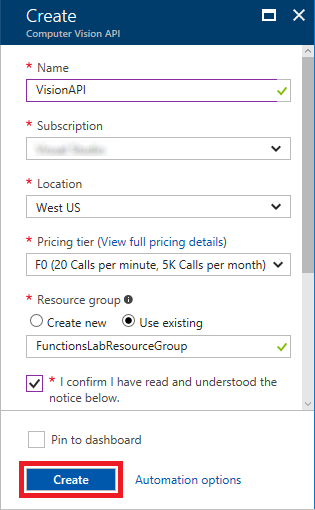
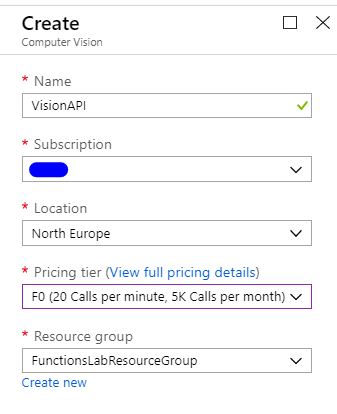
Correction with new UI and change to v1 Function

Changed region(s): [[0.0, 0.0, 1.0, 1.0], [0.4286, 0.9275, 0.7714, 0.9565], [0.8571, 0.8406, 0.9429, 0.8986]]

diff --git a/doc/01 - Portal/Azure Functions HOL (C#).md b/doc/01 - Portal/Azure Functions HOL (C#).md
@@ -74,27 +74,35 @@ The first step in writing an Azure Function is to create an Azure Function App. 
 
     _Opening the resource group_
 
+
+
 5. Periodically click the **Refresh** button at the top of the blade until "Deploying" changes to "Succeeded," indicating that the Function App has been deployed. Then click the storage account that was created for the Function App.
 
     ![Opening the storage account](Images/open-storage-account-after-deployment.png)
 
     _Opening the storage account_
 
-6. Click **Blobs** to view the contents of blob storage.
+6. Click on **Function Name**, and then in the Platform features in the right pane. Then clik on **Function app settings**, select **-1** 
+
+    ![Chaning Function app setting](Images/change-appsettings.PNG)
+
+    _Chaning Function app setting_
+
+7. Click **Blobs** to view the contents of blob storage.
 
     ![Opening blob storage](Images/open-blob-storage.png)
 
     _Opening blob storage_
 
-7. Click **+ Container**. Type "uploaded" into the **Name** box and set **Access type** to **Private**. Then click the **OK** button to create a new container.
+8. Click **+ Container**. Type "uploaded" into the **Name** box and set **Access type** to **Private**. Then click the **OK** button to create a new container.
 
     ![Adding a container](Images/add-container.png)
 
     _Adding a container_
 
-8. Repeat Step 7 to add containers named "accepted" and "rejected" to blob storage.
+9. Repeat Step 7 to add containers named "accepted" and "rejected" to blob storage.
 
-9. Confirm that all three containers were added to blob storage.
+10. Confirm that all three containers were added to blob storage.
 
     ![The new containers](Images/new-containers.png)
 
@@ -186,7 +194,8 @@ public async static Task Run(Stream myBlob, Stream acceptedBlob, Stream rejected
   {
       "frameworks": {
           "net46": {
-              "dependencies": {					"Microsoft.ProjectOxford.Vision": "1.0.393",
+              "dependencies": {					
+                  "Microsoft.ProjectOxford.Vision": "1.0.393",
                   "WindowsAzure.Storage": "7.2.0"
               }
           }
@@ -212,41 +221,41 @@ An Azure Function written in C# has been created, complete with a JSON project f
 
 The Azure Function you created in [Exercise 2](#Exercise2) loads a subscription key for the Microsoft Cognitive Services Computer Vision API from application settings. This key is required in order for your code to call the Computer Vision API, and is transmitted in an HTTP header in each call. In this exercise, you will subscribe to the Computer Vision API, and then add an access key for the subscription to application settings.
 
-1. In the Azure Portal, click **+ New**, followed by **AI + Cognitive Services** and **Computer Vision API**.
+1. In the Azure Portal, click **+ New**, followed by **AI + Machine Learning** and **Computer Vision**.
 
-    ![Creating a new Computer Vision API subscription](Images/new-vision-api.png)
+    ![Creating a new Computer Vision subscription](Images/new-vision-api.png)
 
-    _Creating a new Computer Vision API subscription_
+    _Creating a new Computer Vision subscription_
 
 2. Enter "VisionAPI" into the **Name** box and select **F0** as the **Pricing tier**. Under **Resource Group**, select **Use existing** and select the "FunctionsLabResourceGroup" that you created for the Function App in Exercise 1. Check the **I confirm** box, and then click **Create**.
 
-    ![Subcribing to the Computer Vision API](Images/create-vision-api.png)
+    ![Subcribing to the Computer Vision](Images/create-vision-api.png)
 
-    _Subcribing to the Computer Vision API_
+    _Subcribing to the Computer Vision_
 
 3. Return to the blade for the "FunctionsLabResourceGroup" resource group and click the Computer Vision API subscription that you just created.
 
-    ![Opening the Computer Vision API subscription](Images/open-vision-api.png)
+    ![Opening the Computer Vision subscription](Images/open-vision-api.png)
 
-    _Opening the Computer Vision API subscription_
+    _Opening the Computer Vision subscription_
 
-4. Click **Overview** in left pane. Click **Show access keys**.
+4. Click **Overview** in left pane. Click **Show access keys**. 
 
     ![Viewing the access keys](Images/show-access-keys.png)
 
     _Viewing the access keys_
 
-5. Click the **Copy** button to the right of **KEY 1** to copy the access key to the clipboard.
+5. Click the **Copy** button to the right of **KEY 1** to copy the access key to the clipboard. Copy the Endpoint URL, you may need to change the VisionServiceClient object in the code.
 
     ![Copying the access key](Images/copy-access-key.png)
 
     _Copying the access key_
 
-6. Return to the Function App in the Azure Portal and click the function name in the ribbon on the left. Then click **Platform features**, followed by **Application settings**. 
+6. Return to the Function App in the Azure Portal and click the function name in the ribbon on the left. Then click **Platform features**, followed by **Configuration**. 
 
-    ![Viewing application settings](Images/open-app-settings.png)
+    ![Viewing configuration](Images/open-app-settings.png)
 
-    _Viewing application settings_
+    _Viewing configuration_
 
 7. Scroll down to the "App settings" section. Add a new app setting named "SubscriptionKey" (without quotation marks), and paste the subscription key that is on the clipboard into the **Value** box. Then click **Save** at the top of the blade.
 
